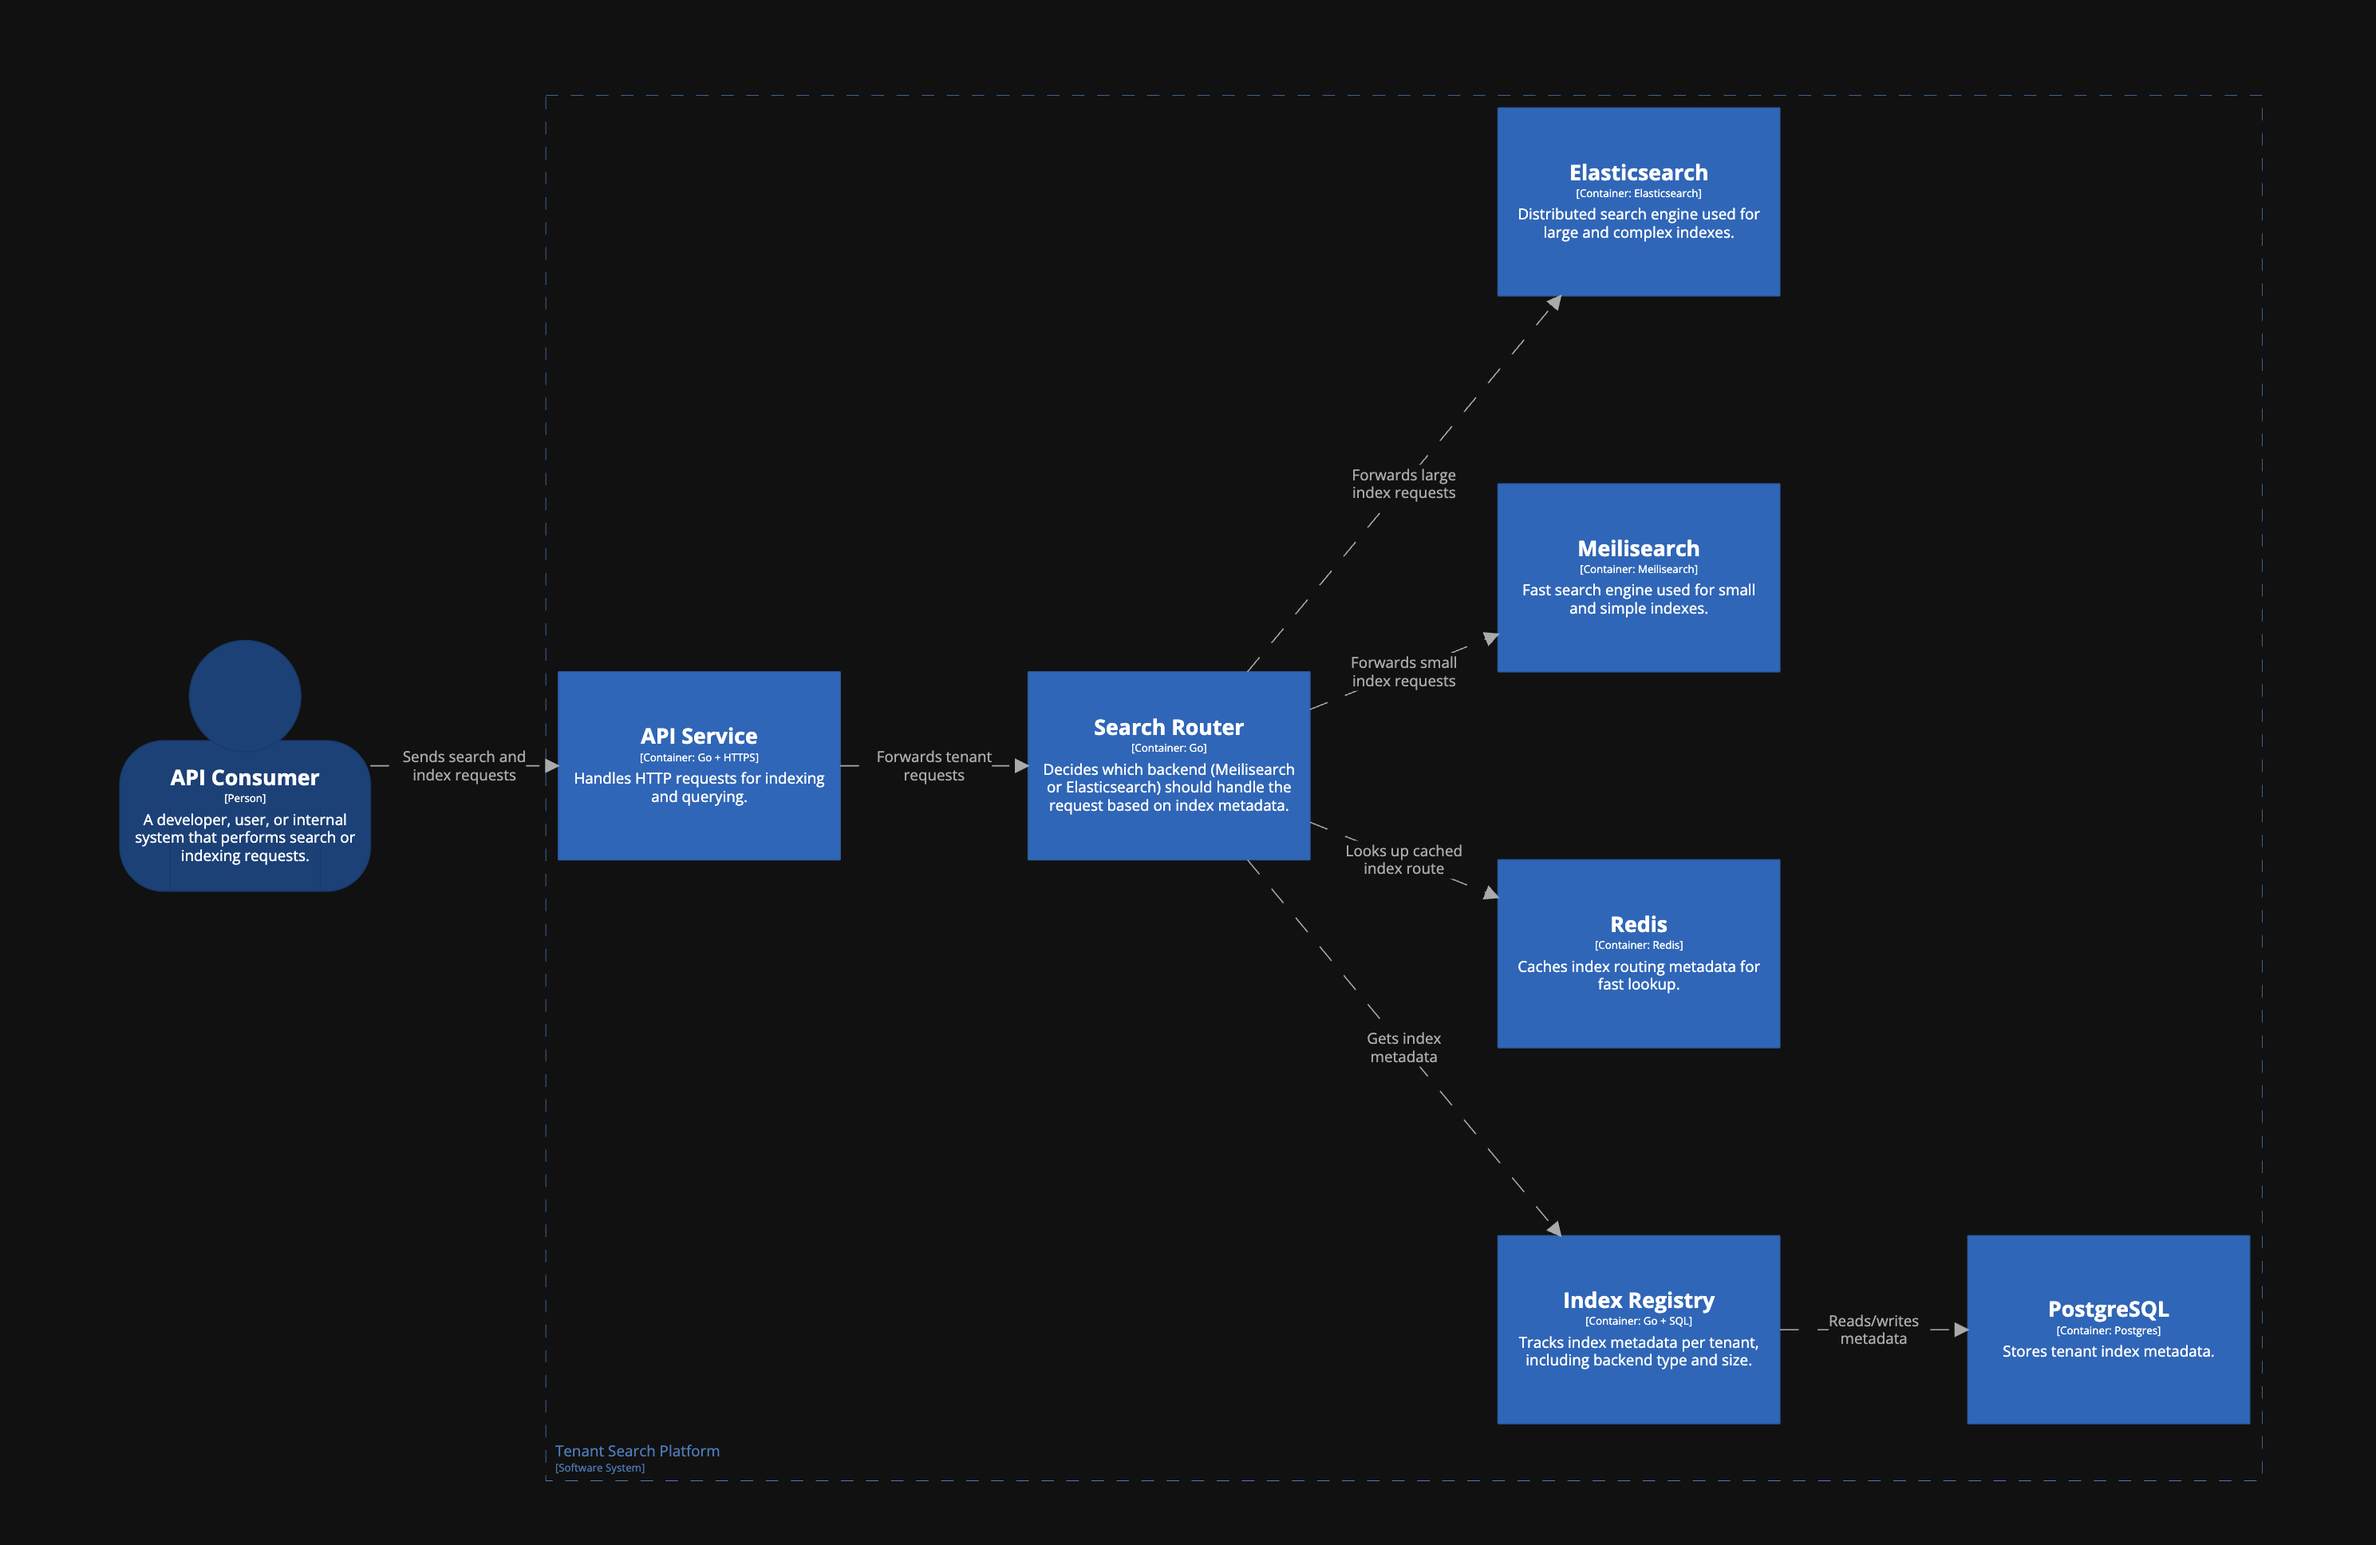
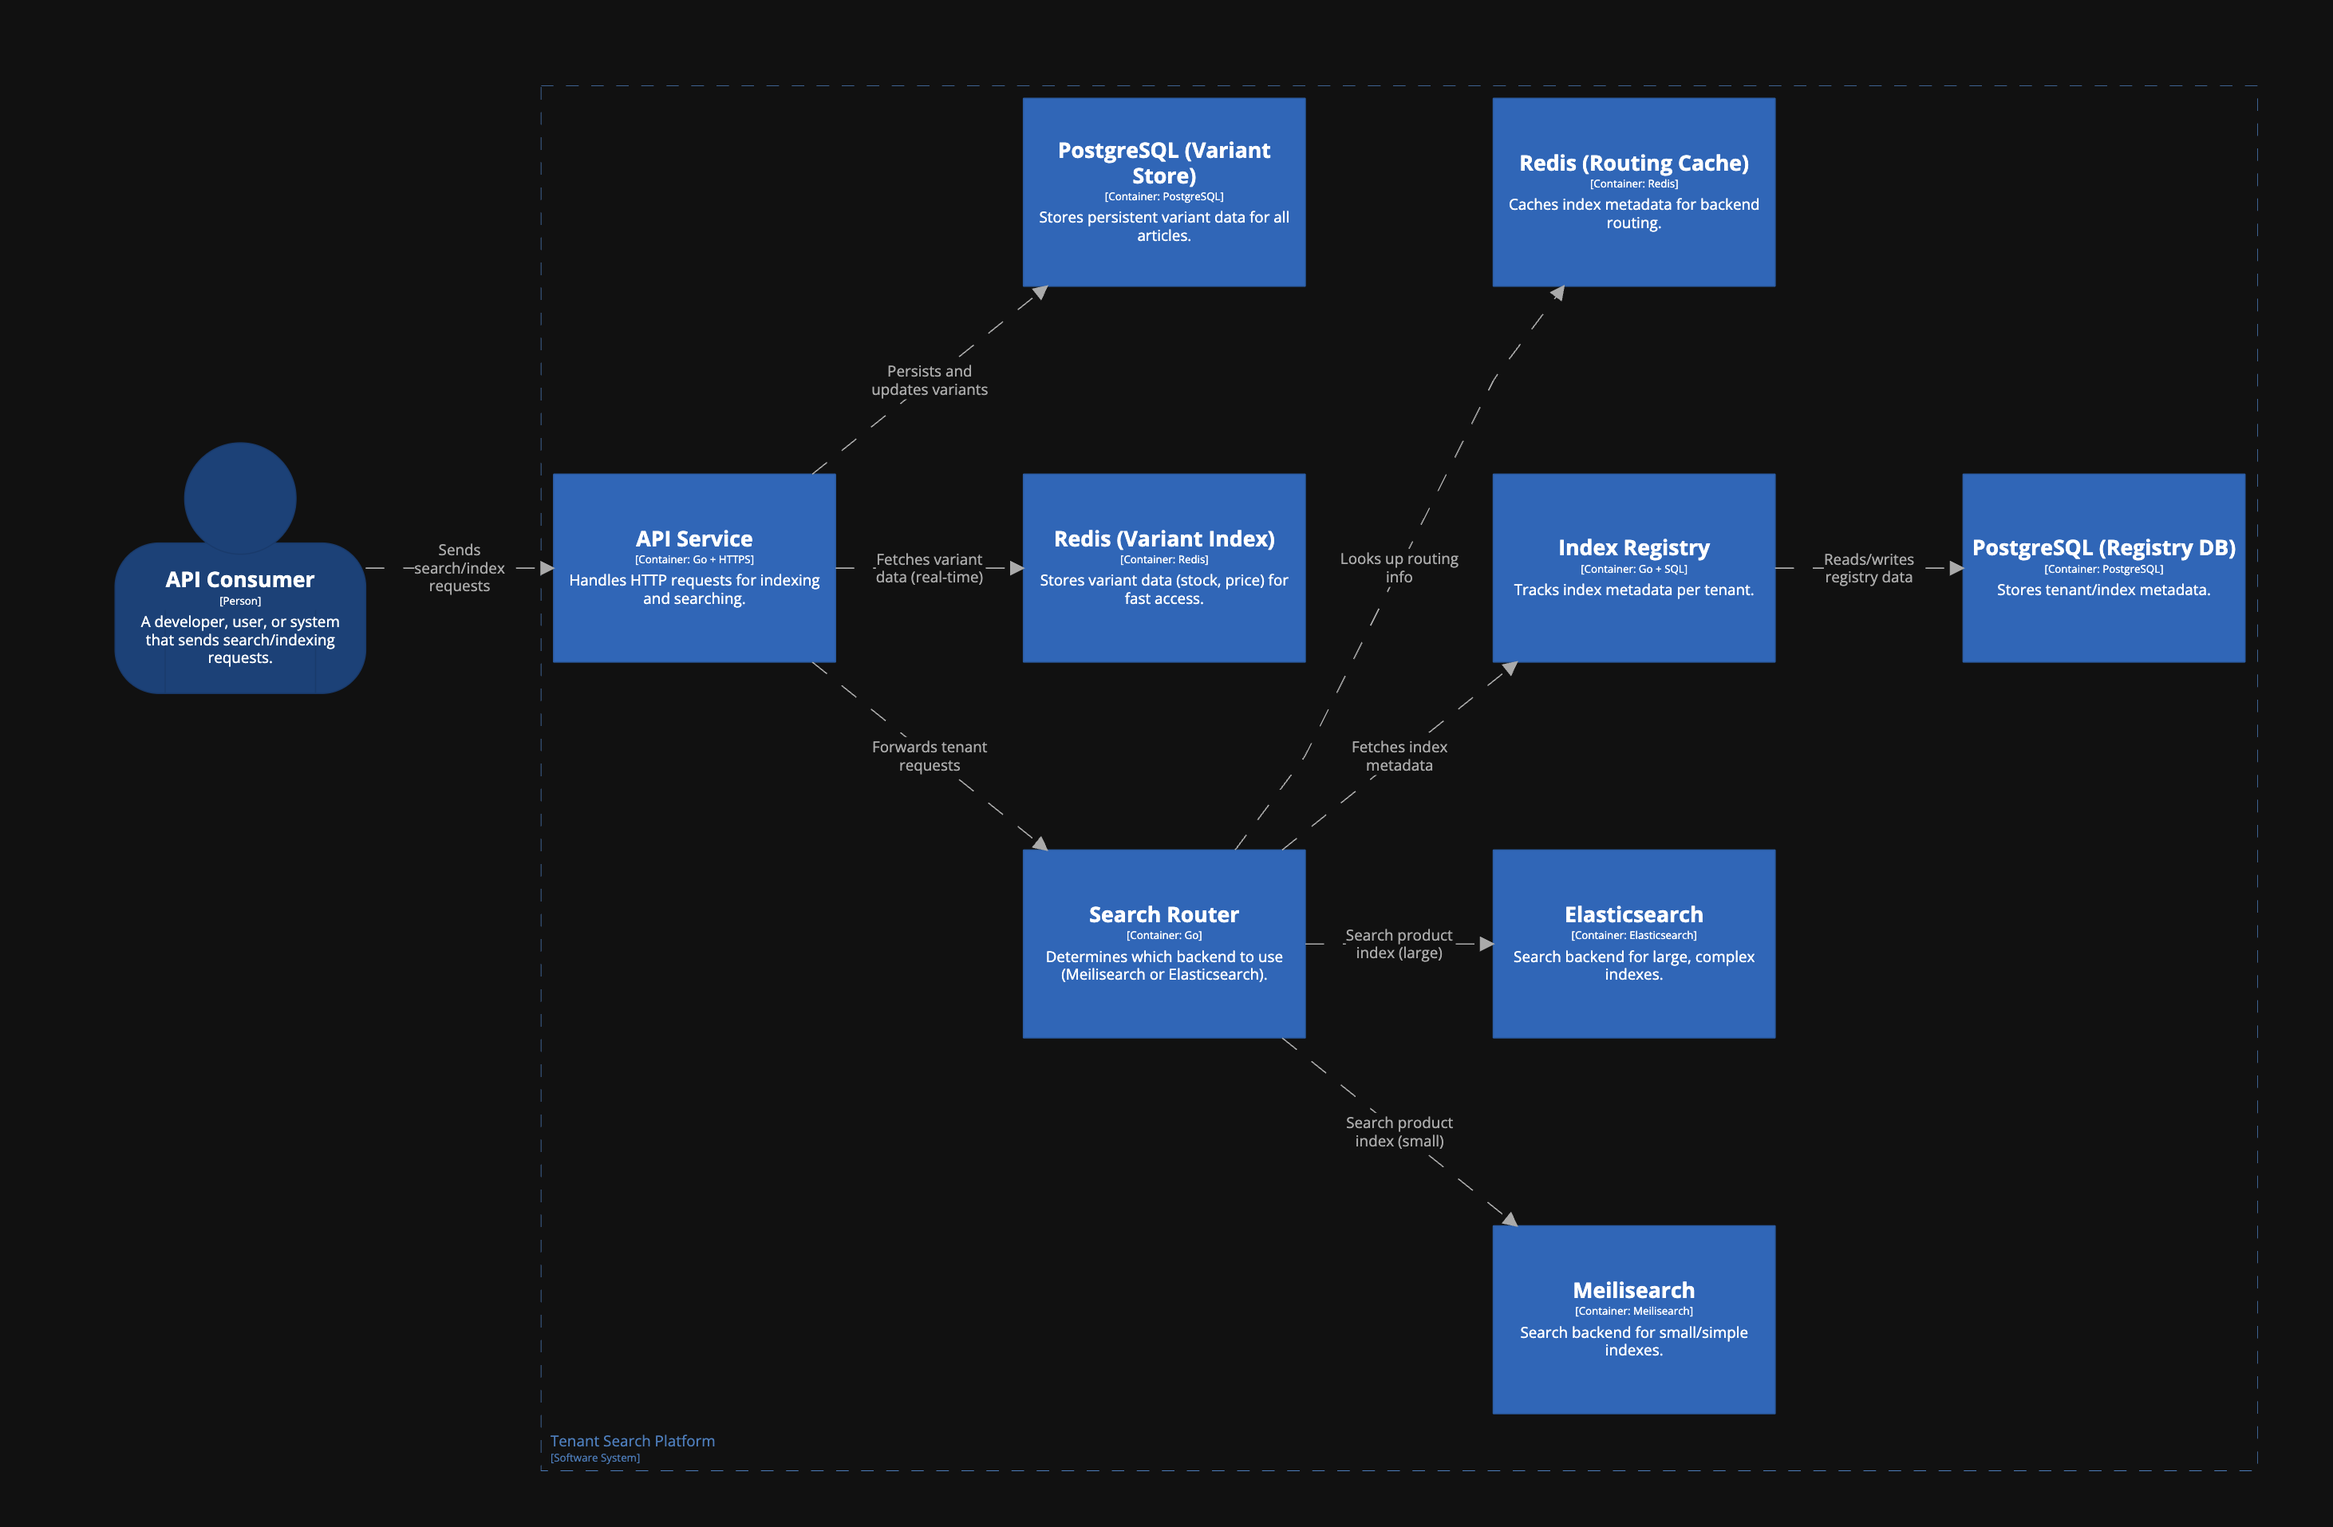
Store code to generate diagrams for further reference

diff --git a/assets/context-diagram.md b/assets/context-diagram.md
@@ -1,0 +1,103 @@
+```structurizr
+workspace {
+
+    model {
+        user = person "API Consumer" {
+            description "A developer, user, or system that sends search/indexing requests."
+        }
+
+        searchPlatform = softwareSystem "Tenant Search Platform" {
+            description "A multi-tenant platform to search and index articles and products using Meilisearch or Elasticsearch."
+
+            api = container "API Service" {
+                description "Handles HTTP requests for indexing and searching."
+                technology "Go + HTTPS"
+            }
+
+            router = container "Search Router" {
+                description "Determines which backend to use (Meilisearch or Elasticsearch)."
+                technology "Go"
+            }
+
+            registry = container "Index Registry" {
+                description "Tracks index metadata per tenant."
+                technology "Go + SQL"
+            }
+
+            redis = container "Redis (Routing Cache)" {
+                description "Caches index metadata for backend routing."
+                technology "Redis"
+            }
+
+            postgres = container "PostgreSQL (Registry DB)" {
+                description "Stores tenant/index metadata."
+                technology "PostgreSQL"
+            }
+
+            variantRedis = container "Redis (Variant Index)" {
+                description "Stores variant data (stock, price) for fast access."
+                technology "Redis"
+            }
+
+            variantPostgres = container "PostgreSQL (Variant Store)" {
+                description "Stores persistent variant data for all articles."
+                technology "PostgreSQL"
+            }
+
+            meili = container "Meilisearch" {
+                description "Search backend for small/simple indexes."
+                technology "Meilisearch"
+            }
+
+            elastic = container "Elasticsearch" {
+                description "Search backend for large, complex indexes."
+                technology "Elasticsearch"
+            }
+
+            user -> api "Sends search/index requests"
+            api -> router "Forwards tenant requests"
+            router -> redis "Looks up routing info"
+            router -> registry "Fetches index metadata"
+            registry -> postgres "Reads/writes registry data"
+
+            router -> meili "Search product index (small)"
+            router -> elastic "Search product index (large)"
+
+            api -> variantRedis "Fetches variant data (real-time)"
+            api -> variantPostgres "Persists and updates variants"
+        }
+    }
+
+    views {
+        systemContext searchPlatform {
+            include *
+            autoLayout lr
+            title "Context Diagram - Multi-Tenant Search Platform with Variant Store"
+        }
+
+        container searchPlatform {
+            include *
+            autoLayout lr
+            title "Container Diagram - Multi-Tenant Search Platform with Variant Store"
+        }
+
+        styles {
+            element "Container" {
+                background "#1168bd"
+                color "#ffffff"
+            }
+
+            element "Person" {
+                background "#08427b"
+                color "#ffffff"
+                shape "person"
+            }
+
+            element "Software System" {
+                background "#438dd5"
+                color "#ffffff"
+            }
+        }
+    }
+}
+```
